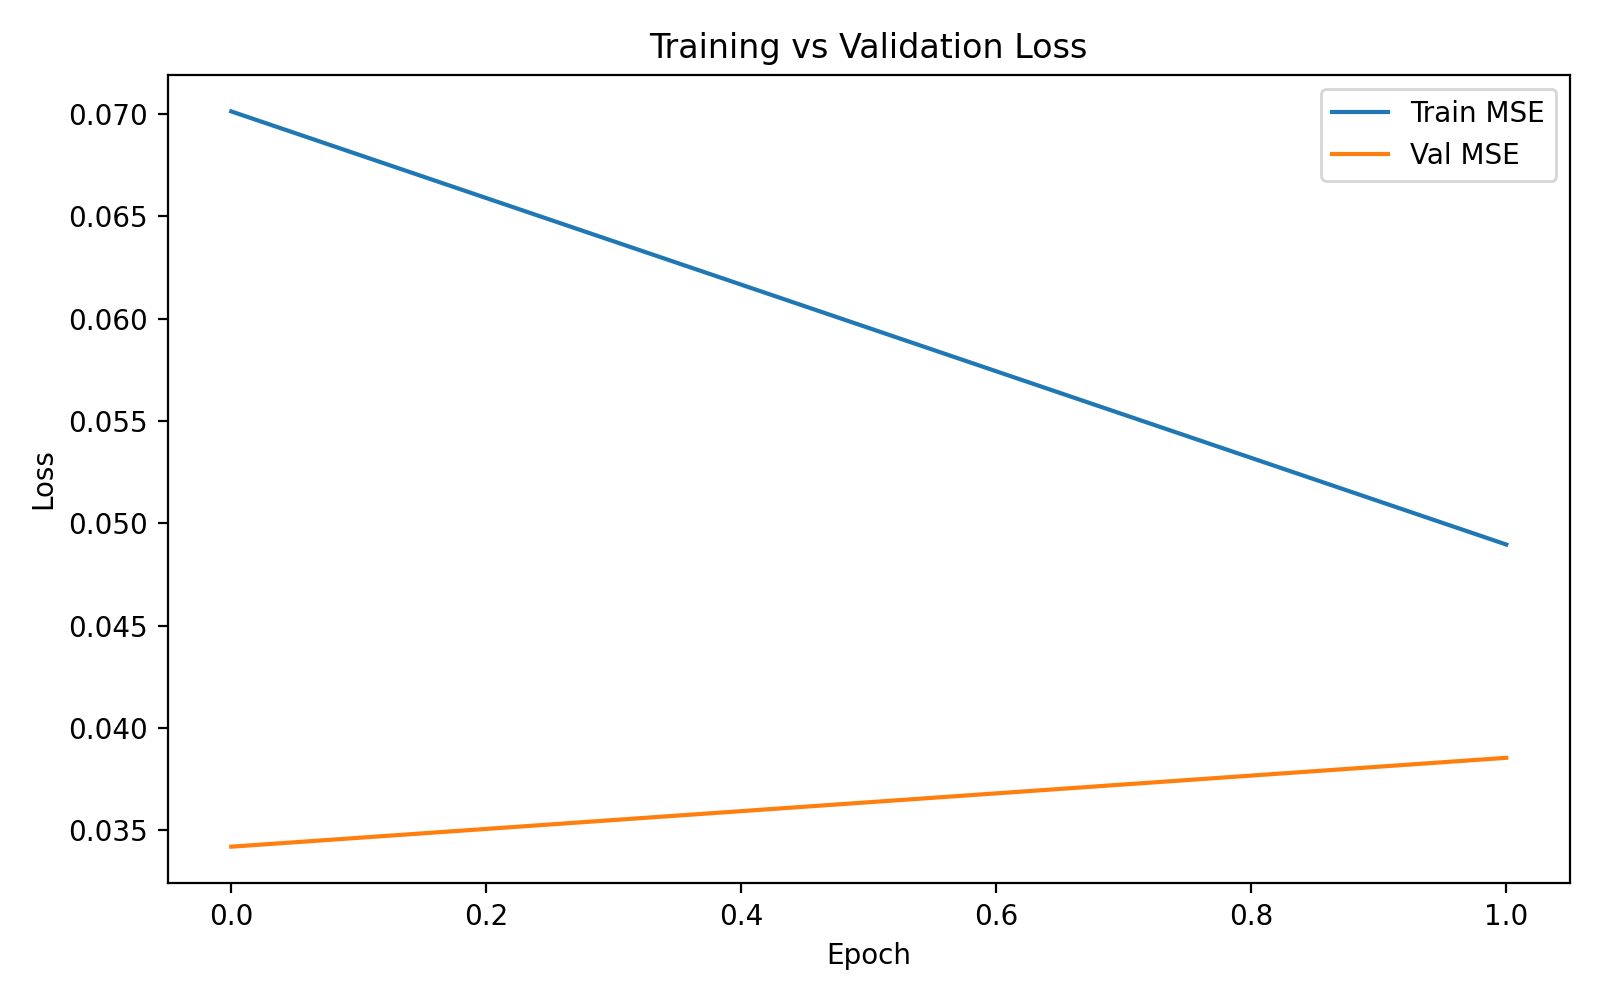
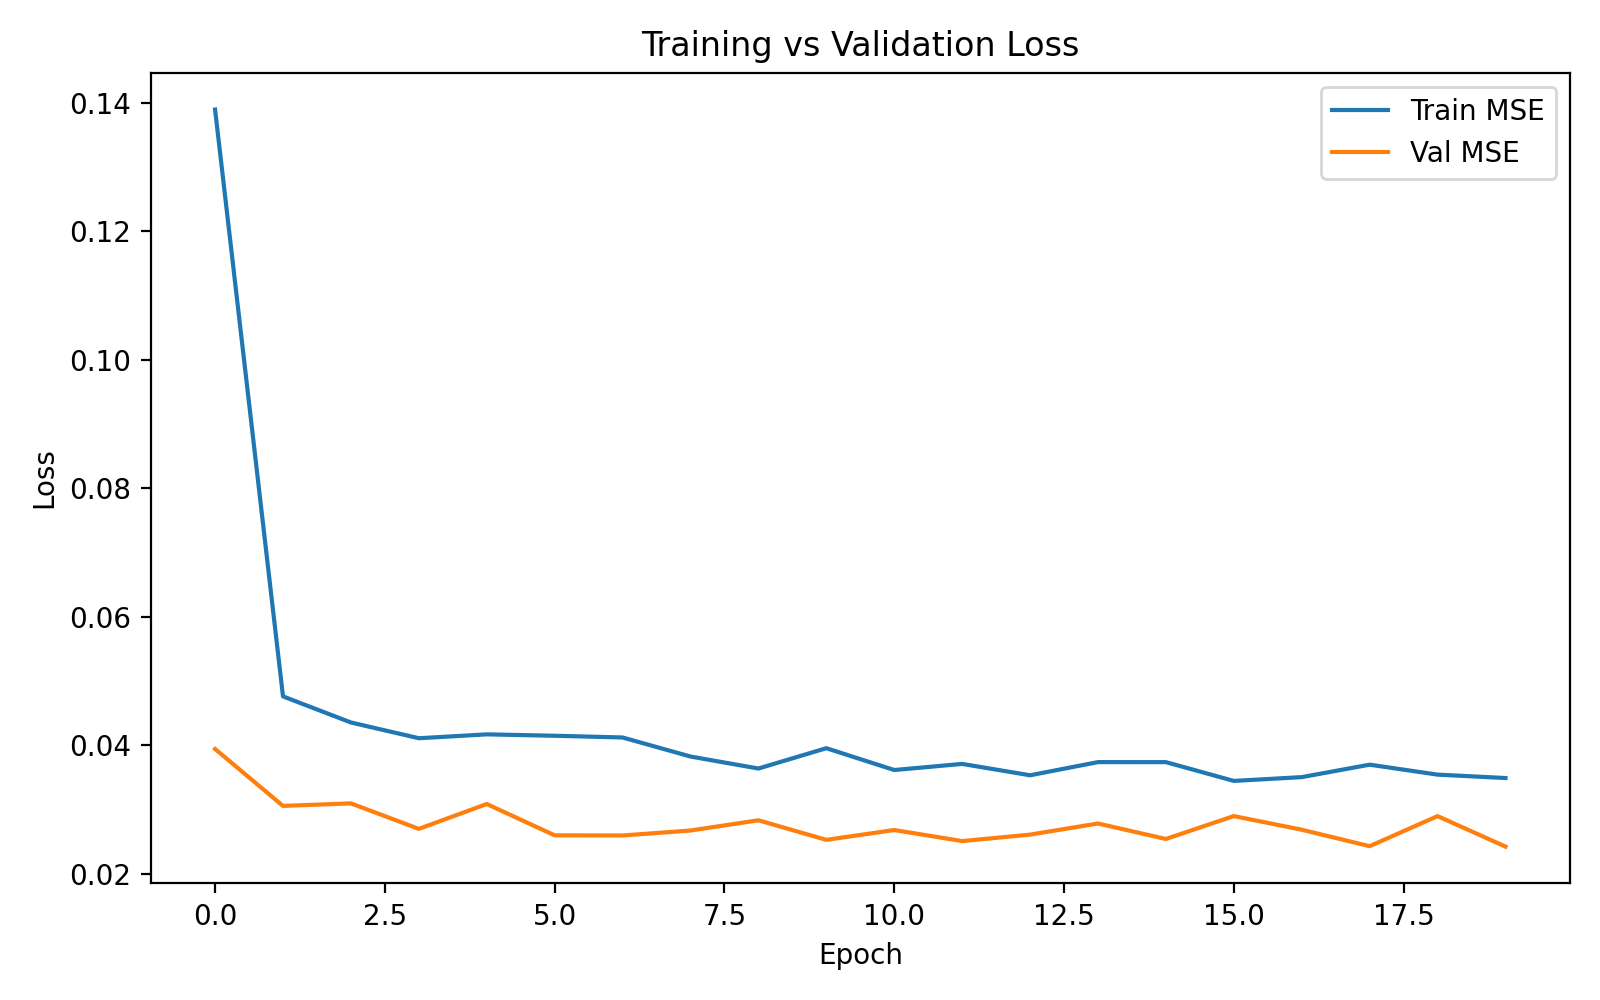
-add metrics and crves from a 20 epoch run -add another leakage risk -update train_model.py for better readability

diff --git a/eda.py b/eda.py
@@ -211,7 +211,7 @@ def collect_summary(df: pd.DataFrame) -> Dict[str, object]:
         issues.append("age_days is missing for more than 10% of entries, limiting the reliability of temporal analysis.")
     if summary["max_images_per_plant"] > 5:
         issues.append(
-            "Multiple images per plant exist, so random train/test splits risk leakage without grouping by plant_number."
+            "Multiple images per plant exist, so random train/test splits risk leakage without grouping by plant_number. Same goes for experiment_id."
         )
     summary["data_quality_issues"] = issues
     return summary

diff --git a/train_model.py b/train_model.py
@@ -47,9 +47,9 @@ def set_seed(seed: int) -> None:
 def get_git_hash() -> Optional[str]:
     try:
         result = subprocess.check_output(["git", "rev-parse", "HEAD"], stderr=subprocess.DEVNULL)
+        return result.decode("utf-8").strip()
     except Exception:
         return None
-    return result.decode("utf-8").strip()
 
 
 def setup_logging() -> logging.Logger:

diff --git a/README.md b/README.md
@@ -67,6 +67,7 @@ Identified from `eda_summary.json` and manual inspection:
 1. **Missing labels:** 14.2 percent of rows lack `fresh_weight_total`, so a notable subset of imagery cannot be used for supervised learning without semi-supervised approaches.
 2. **Sparse metadata:** `age_days` is missing in 11.5 percent of the entries, limiting longitudinal analysis.
 3. **Leakage risk:** 168 plant identifiers have multiple snapshots (up to 42). Random row-based splits would leak the same plant into training and validation sets, so `GroupShuffleSplit` groups by `plant_number`.
+4. **Leakage risk:** Also group by experiment_id, beacuse there is a negative correlation of -0.4.
 
 ## Modeling Approach
 
@@ -78,10 +79,10 @@ Identified from `eda_summary.json` and manual inspection:
 
 ## Training Run and Results
 
-Command executed on CPU:
+Command executed on CPU (with default hyperparameters):
 
 ```
-python train_model.py --epochs 2 --batch_size 16 --learning_rate 5e-4 --model_out models/resnet18_biomass.pt --freeze_backbone
+python train_model.py
 ```
 
 Artifacts:
